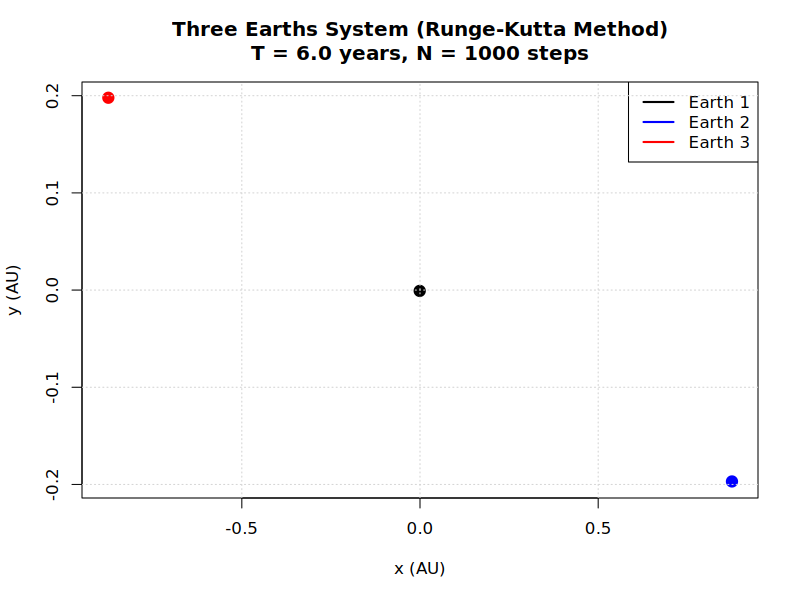
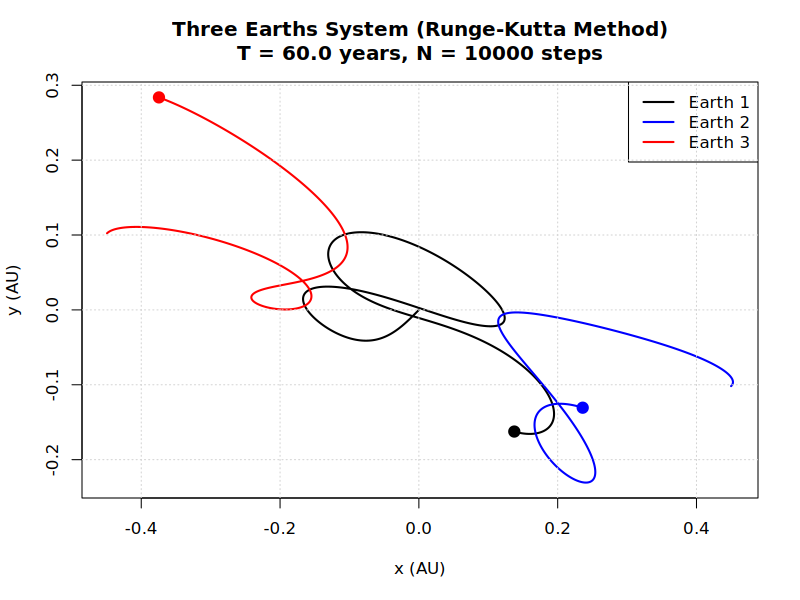
figure 8 solution doesnt work still

diff --git a/examples/three_body_examples/figure_8_solution.py b/examples/three_body_examples/figure_8_solution.py
@@ -5,7 +5,7 @@ def get_initial_conditions():
     G = 1
     m = 1
     T = 2 * np.pi
-    N = 999
+    N = 2000
     dt = T / N
 
     def shift(n, s): return (np.arange(n) + s) % n
@@ -18,7 +18,7 @@ def get_initial_conditions():
         vel = (X[shift(N, -1)] - X[shift(N, 1)]) / (2 * dt)
         K = 0.5 * m * np.sum(vel**2, axis=1) * 3
         def dist(a, b): return np.sqrt(np.sum((a - b)**2, axis=1) + 1e-12)
-        U = -G * m**2 * (1 / dist(body1, body2) + 1 / dist(body1, body3) + 1 / dist(body2, body3))
+        U = -abs(G) * m**2 * (1 / dist(body1, body2) + 1 / dist(body1, body3) + 1 / dist(body2, body3))
         return np.sum((K - U) * dt)
 
     a = 0.97000436
